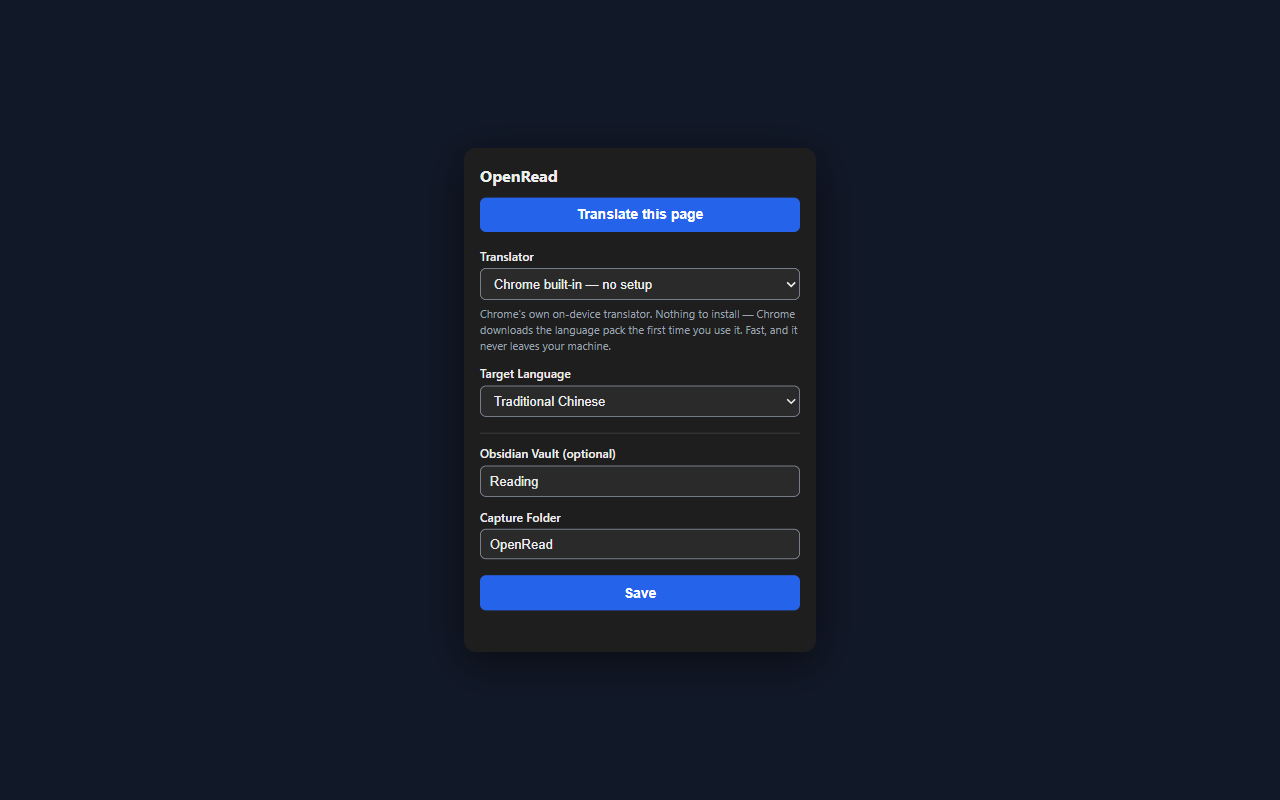
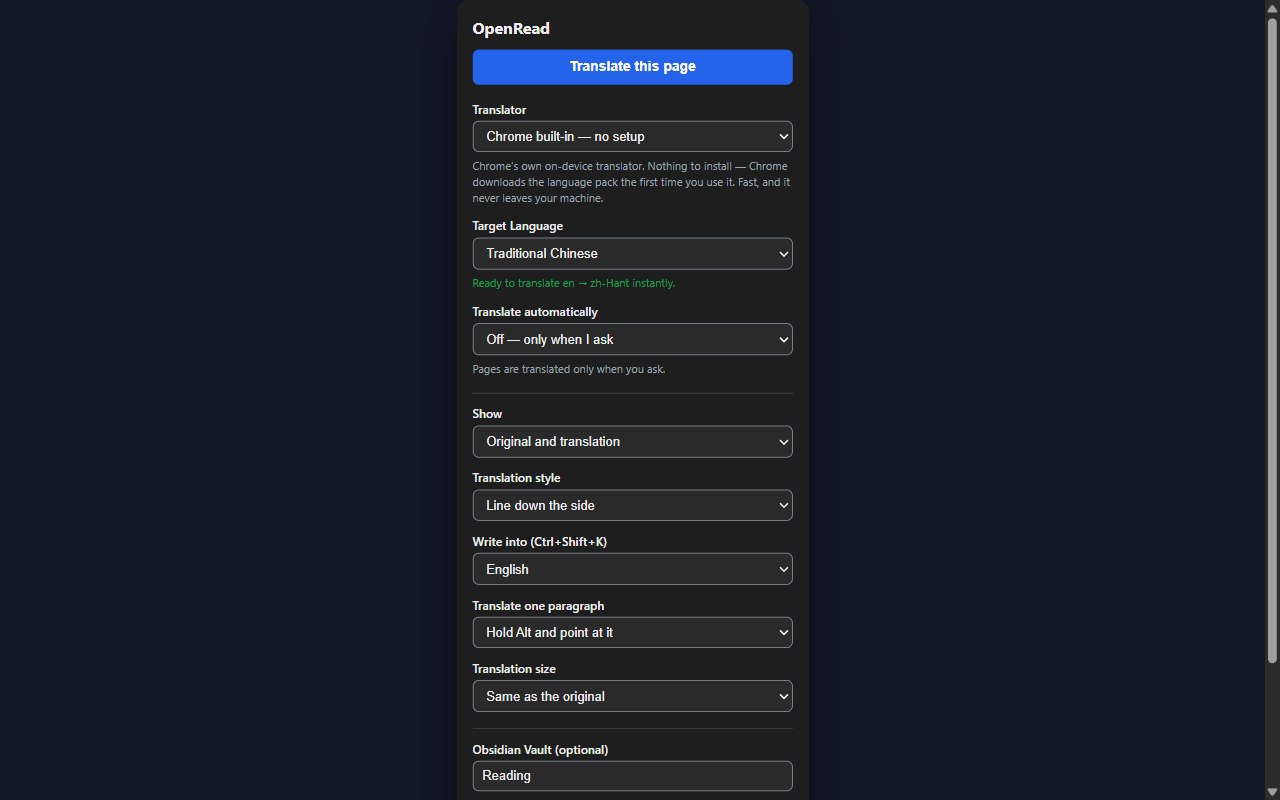
chore: re-shoot the store assets, and say what the product now does
The listing described 2.11.0. Seven features shipped between then and
2.18.1 that it did not mention: a whole PDF rather than a selection
inside one, translating the box you are typing in, one paragraph by
pointing at it, thirty-nine target languages instead of eight, three
settings for how a translation looks, automatic translation, and the
right-click routes. A listing that describes a smaller product than the
one it links to is a listing that loses the install — and this one is
about to be resubmitted for a review that takes weeks.

The third screenshot changed subject. It showed the selection UI inside
the PDF viewer, which is the same gesture as the second: two of four
frames spent on one gesture, and the headline feature of this release
absent. It now shows a whole PDF translated, framed on the seam so both
halves are in view — the page as the author set it, and that page's
translation underneath. Where the translation goes *is* the design, and
a shot of either half alone says nothing about it.

That reframing took two attempts. The first was 80% blank white paper:
the fixture page carries its text at the top, and at the viewer's
default scale the seam sits below a hand's width of nothing. Half scale
puts the paper's own text and its translation in one frame. Recorded in
the script, because the next person to re-shoot will hit it too.

Everything else is a straight re-shoot against 2.18.1 — the popup in
[…]

Changed region(s): [[0.3438, 0.0312, 0.625, 1.0], [0.9688, 0.0, 1.0, 1.0]]

diff --git a/docs/store/LISTING.md b/docs/store/LISTING.md
@@ -1,14 +1,21 @@
 # Chrome Web Store listing copy
 
-Paste-ready copy for the store listing, current as of **2.11.0**. Two languages
+Paste-ready copy for the store listing, current as of **2.18.1**. Two languages
 are provided; pick one as the listing language (zh-TW recommended for the
 primary audience) and add the other via the dashboard's localized-listing
 option if desired.
 
-> Rewritten for 2.11.0. The previous copy described an Ollama-only product and
-> told the reader to set `OLLAMA_ORIGINS` before starting the server — a step
-> 2.5.0 removed, and a requirement 2.7.0 removed, since the default engine is
-> Chrome's own on-device translator and needs nothing installed.
+> Updated for 2.18.1. Seven features shipped between 2.11.0 and here that the
+> copy did not mention — a whole PDF rather than a selection inside one,
+> translating the box you are typing in, one paragraph by pointing at it,
+> thirty-nine target languages instead of eight, three settings for how a
+> translation looks, and translating a page automatically. A listing that
+> describes a smaller product than the one it links to is a listing that loses
+> the install.
+>
+> The earlier rewrite for 2.11.0 replaced copy describing an Ollama-only
+> product that told the reader to set `OLLAMA_ORIGINS` before starting a
+> server — a step 2.5.0 removed and a requirement 2.7.0 removed.
 
 ## Name (≤ 45 chars)
 
@@ -36,15 +43,25 @@ API 金鑰、不需要帳號。第一次翻某個語言對時，Chrome 會下載
 適合不能上傳雲端的文件：未發表的論文、合約、內部資料。
 
 特色
-• 整頁雙語翻譯：譯文附在原文下方而非取代原文，看起來怪的句子可以立刻對照原文
-• 網頁與 PDF 通用：內建 PDF.js 檢視器，.pdf 連結自動導入，選字翻譯用法完全相同
+• 整頁雙語翻譯：譯文附在原文下方而非取代原文，看起來怪的句子可以立刻對照原文。
+  先翻你看得到的部分，捲動時自動跟上，長文或動態載入的頁面按一次就夠
+• 整篇 PDF：每一頁的譯文放在該頁下方，版面、雙欄、圖表、公式一律不動
+• 一段就好：按住 Alt 指向某一段，只翻那一段——不用拖曳選取，也不改寫整頁
+• 翻譯你正在打的字：在任何輸入框按右鍵（或 Ctrl+Shift+K），內容換成譯文，
+  Ctrl+Z 可以還原
+• 自動翻譯：可設定成「只翻外語頁面」或「每頁都翻」，預設關閉，任何網站都能
+  單獨排除
+• 三十九種目標語言，每一種都對真實 Chrome 驗證過支援
+• 外觀可調：雙語或只顯示譯文、四種標記樣式、三種字級，改了立即生效不用重翻
 • 台灣用語在地化：OpenCC s2twp 詞組級簡繁轉換（界面→介面、公里不會變公裡），
   另有一層針對內建引擎的台灣詞彙修正（用戶→使用者、運行→執行）
 • 同語言短路：內容已是目標語言時直接跳過翻譯，零延遲零成本
 • 一鍵存到 Obsidian：翻譯結果連同原文與 YAML frontmatter 寫成筆記
 • 想要更強的可以換引擎：接本機 Ollama 用大型語言模型翻譯，它會參考頁面上下文、
   可以自己選模型，並且解鎖擷取筆記的自動摘要與標籤
-• 鍵盤可用：Ctrl+Shift+Y 翻譯選取範圍，Esc 關閉面板，面板本身是有標記的對話框
+• 鍵盤可用：Ctrl+Shift+Y 翻譯選取範圍、Ctrl+Shift+U 翻譯整頁、Ctrl+Shift+K
+  翻譯輸入框，Esc 關閉面板，面板本身是有標記的對話框。每個功能都另有右鍵入口，
+  快捷鍵被其他程式佔用時仍然可用
 
 需求
 • Chrome 138 以上（內建翻譯模型由 Chrome 提供）
@@ -75,7 +92,22 @@ internal material.
 
 Features
 • Whole-page bilingual translation — the translation is appended under the
-  original, never over it, so a sentence that looks wrong can be checked
+  original, never over it, so a sentence that looks wrong can be checked. What
+  you can see is translated first and the page keeps up as you scroll, so a
+  long article or an endless feed needs one press rather than one per screen
+• A whole PDF — each page's translation is placed under the page itself, so
+  the layout, the columns, the figures and the equations stay as the author
+  set them
+• One paragraph — hold Alt and point at it. No drag, and the rest of the page
+  is left alone
+• The box you are typing in — right-click in any text field (or Ctrl+Shift+K)
+  and what you wrote is replaced with its translation. Ctrl+Z takes it back
+• Automatic translation — optional, off by default: translate pages in another
+  language as they load, with any site excludable in one click
+• Thirty-nine target languages, every one verified against a real Chrome
+• Three settings for how it looks — the original beside the translation or the
+  translation alone, four ways of marking it, three sizes, all applying to a
+  page you are already reading without translating it again
 • Web pages and PDFs alike — .pdf navigations open in a bundled PDF.js
   viewer with the same select-to-translate UI
 • Taiwan-convention Chinese — OpenCC s2twp phrase-level conversion, plus a
@@ -87,8 +119,10 @@ Features
 • A stronger engine when you want one: point it at a local Ollama server to
   translate with an LLM that reads the surrounding page, choose your own
   model, and unlock automatic titles, summaries and tags on captures
-• Keyboard-workable: Ctrl+Shift+Y translates the selection, Escape closes
-  the panel, and the panel is a labelled dialog with a live region
+• Keyboard-workable: Ctrl+Shift+Y translates the selection, Ctrl+Shift+U the
+  page, Ctrl+Shift+K the text box you are in; Escape closes the panel, and the
+  panel is a labelled dialog with a live region. Every one of these also has a
+  right-click entry, so a shortcut another program has taken costs nothing
 
 Requirements
 • Chrome 138 or later (the built-in translation model ships with Chrome)
@@ -110,17 +144,24 @@ Engineering & evaluation: https://github.com/0Smallcat0/OpenRead/blob/main/docs/
   "Store icon" is a required field of its own — the icon inside the package is
   what Chrome shows in the toolbar, not what the store listing shows.
 - Screenshots (1280×800, in [`screenshots/`](screenshots/)), re-shot against
-  2.11.0 on the default built-in engine:
+  2.18.1 on the default built-in engine:
   1. `screenshot-1-translate-web.png` — whole-page bilingual translation on a
      Wikipedia article, with the progress badge showing the finished count.
      This is the one that appears in search results, so it leads with the
      headline feature.
   2. `screenshot-2-select-icon.png` — one paragraph selected, the translation
      panel, and its Save-to-Obsidian and Copy actions.
-  3. `screenshot-3-pdf.png` — the same selection UI inside the bundled PDF.js
-     viewer, on a paper.
-  4. `screenshot-4-popup.png` — the settings popup, showing the built-in
-     engine selected and no server fields to fill in.
+  3. `screenshot-3-pdf.png` — a whole PDF translated in the bundled viewer,
+     framed on the seam so both halves are visible: the page as the author set
+     it, and that page's translation underneath. It used to show the selection
+     UI inside the viewer, which is the same gesture as screenshot two — two of
+     four frames on one gesture describes a smaller product than this one is.
+     Shot at 50% zoom, because the fixture page carries its text at the top and
+     at the viewer's default scale the seam sits below a hand's width of blank
+     paper.
+  4. `screenshot-4-popup.png` — the settings popup: the built-in engine with no
+     server fields to fill in, the language-pack line, automatic translation,
+     and the appearance settings.
 
   The store rejects a screenshot that carries an alpha channel — it wants JPEG
   or 24-bit PNG. All four are 24-bit RGB, which is what `pnpm shoot` produces;
@@ -135,19 +176,23 @@ Engineering & evaluation: https://github.com/0Smallcat0/OpenRead/blob/main/docs/
 
 ## Privacy tab answers
 
-- **Single purpose:** Translate web page and PDF content — a user selection or
-  the whole page — on the user's own machine, using Chrome's built-in
-  on-device translator or a local LLM server the user runs, with optional
-  saving of the result as a note.
+- **Single purpose:** Translate what the user is reading or writing — a
+  selection, a paragraph, a whole page, a whole PDF, or the text field they are
+  typing in — on the user's own machine, using Chrome's built-in on-device
+  translator or a local LLM server the user runs, with optional saving of the
+  result as a note.
 - **Permission justifications:**
   - `storage` — persist user settings (engine, Ollama server URL, model,
-    target language, Obsidian vault/folder, enrichment toggle).
+    target language, the language typed text is translated into, automatic
+    translation and its per-site exceptions, appearance, Obsidian vault/folder,
+    enrichment toggle).
   - `activeTab` — interact with the currently active tab when the user invokes
     the selection UI, asks for a whole-page translation, or opens a local PDF
     in the bundled viewer.
-  - `contextMenus` — add the two right-click entries the features are invoked
-    from ("Translate selection with OpenRead", "Translate this page with
-    OpenRead"). It reads no page content.
+  - `contextMenus` — add the three right-click entries the features are
+    invoked from ("Translate selection with OpenRead", "Translate this page
+    with OpenRead", "Translate what you typed with OpenRead"). It reads no page
+    content.
   - `declarativeNetRequest` — strip the `Origin` header from this extension's
     own requests to the user-configured Ollama server. Ollama rejects requests
     whose origin it does not recognise, and an extension's origin is never on
